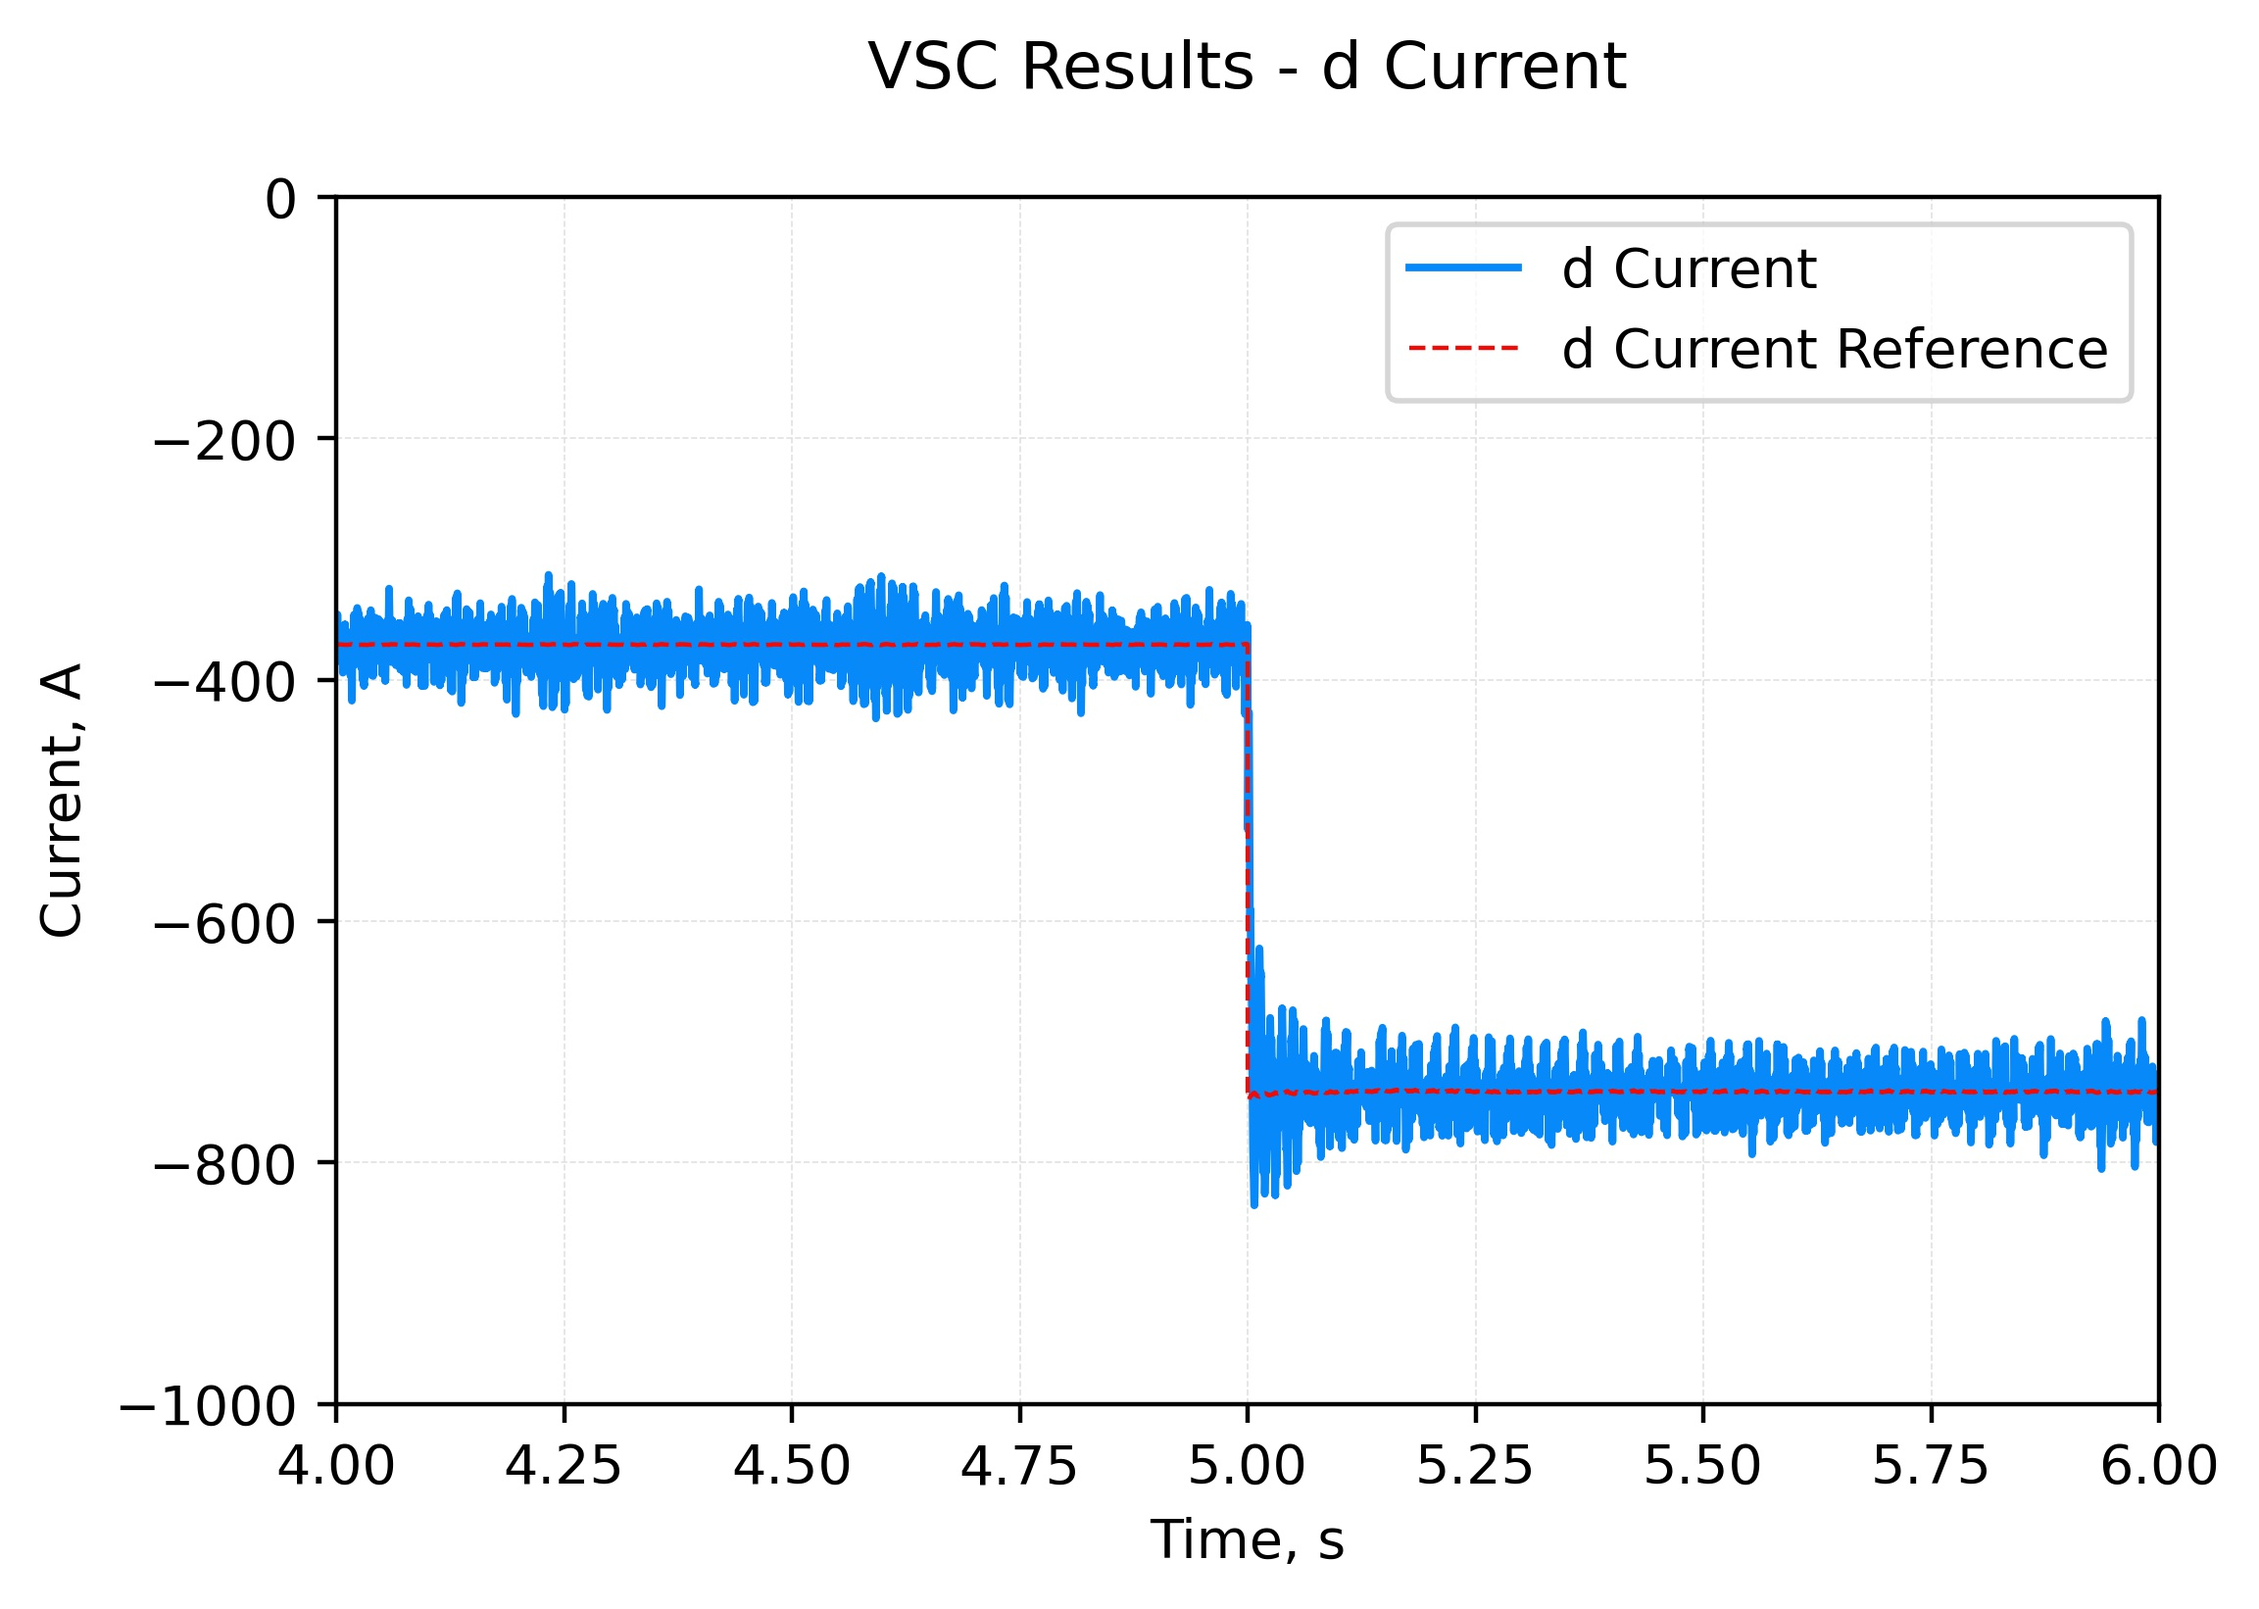
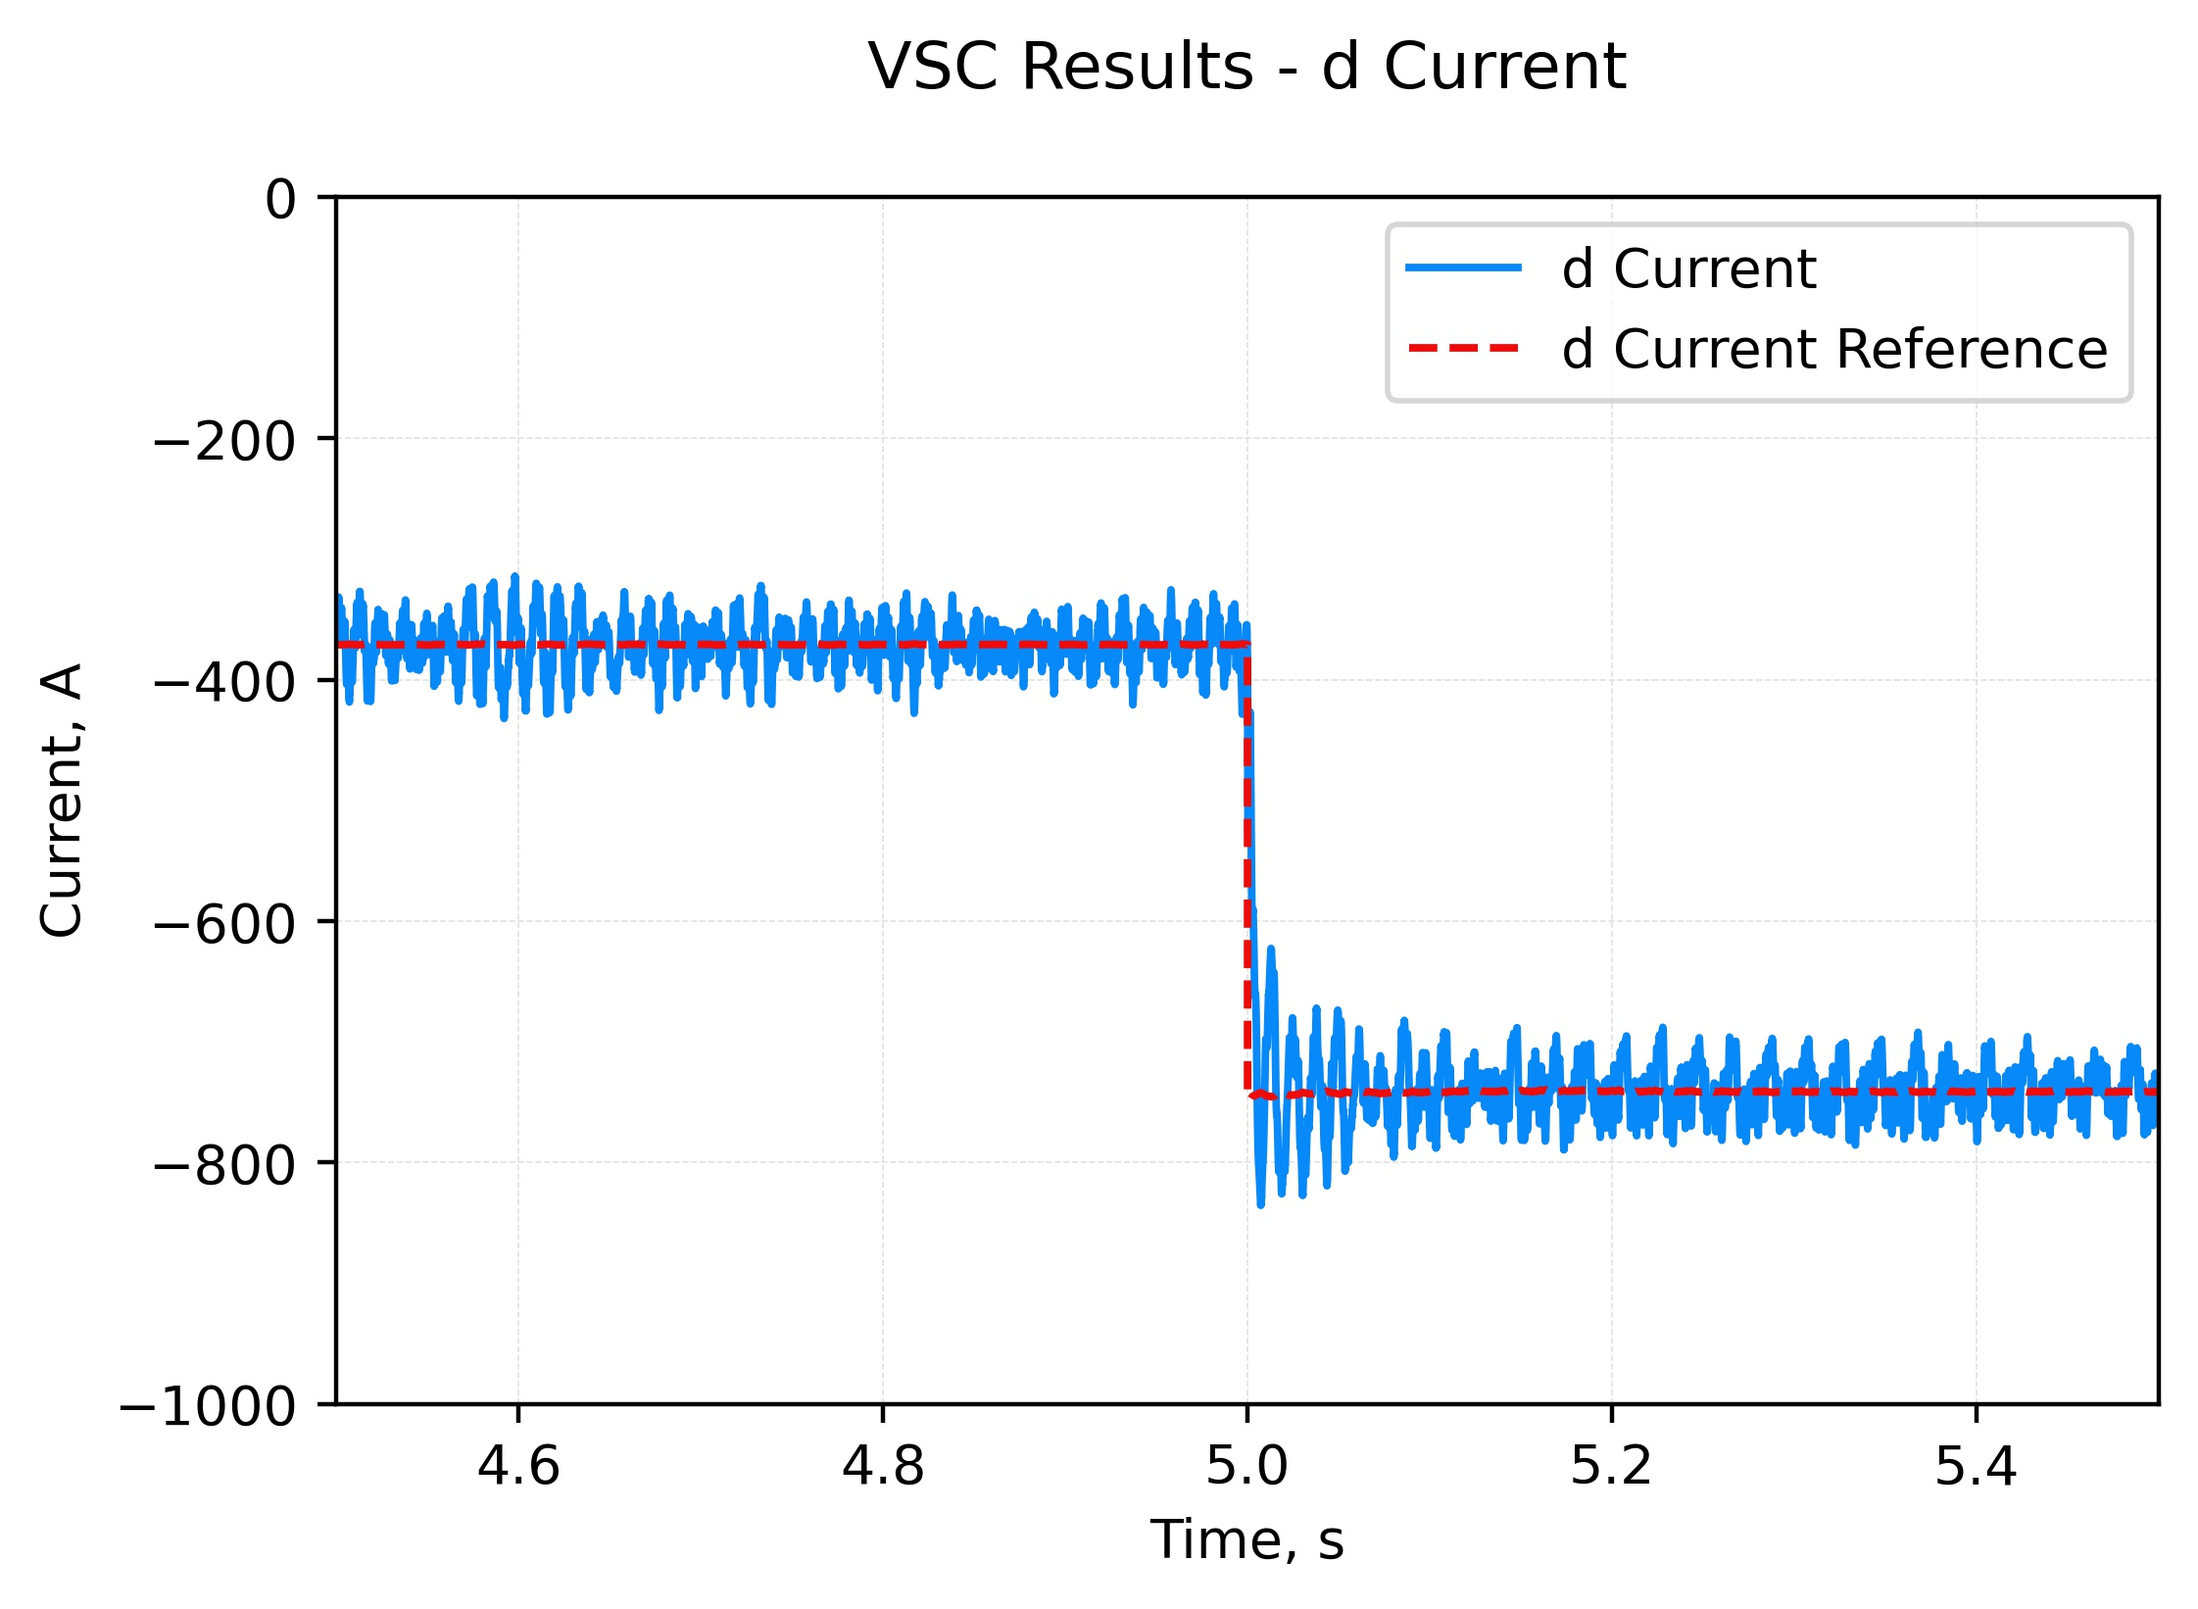
study 0 update

diff --git a/0-vsc-results-analysis.py b/0-vsc-results-analysis.py
@@ -5,24 +5,21 @@ import matplotlib.pyplot as plt
 
 iqFiles = ['iq.mat', 'iqRef.mat']
 idFiles = ['id.mat', 'idRef.mat']
-vdFiles = ['vd.mat']
-vqFiles = ['vq.mat']
 vscPowerFiles = ['power-vsc.mat', 'power-vsc-ref.mat']
 vsc = ['vVsc.mat', 'iVsc.mat']
-grid = ['vGrid.mat', 'iGrid.mat']
 
 
-time = [4, 6]
+time = [4.5, 5.5]
 
 # Plotting q current
-ds = f.importData(iqFiles, 'data/v2-data/0-vsc-results')
+ds = f.importData(iqFiles, 'data/v2-data/0-vsc-results-unfiltered')
 
 plt.figure(figsize=(6, 4), dpi=400)
 
 plt.plot(ds[iqFiles[0]]['Time'], ds[iqFiles[0]]['Value'],
          color='#0789FA', linewidth=1.4, label='q Current')
 plt.plot(ds[iqFiles[1]]['Time'], ds[iqFiles[1]]['Value'],
-         color='#F10A0A', linewidth=0.8, label='q Current Reference', linestyle='--')
+         color='#F10A0A', linewidth=1.4, label='q Current Reference', linestyle='--')
 
 plt.grid(linewidth=0.3, linestyle='--', color='#E1E1E1')
 plt.title('VSC Results - q Current', pad=20)
@@ -34,14 +31,14 @@ plt.legend(loc='lower right')
 plt.savefig('plots/v2-plots/0-vsc-iq.jpg', dpi=400, bbox_inches='tight')
 
 # Plotting d current
-ds = f.importData(idFiles, 'data/v2-data/0-vsc-results')
+ds = f.importData(idFiles, 'data/v2-data/0-vsc-results-unfiltered')
 
 plt.figure(figsize=(6, 4), dpi=400)
 
 plt.plot(ds[idFiles[0]]['Time'], ds[idFiles[0]]['Value'],
          color='#0789FA', linewidth=1.4, label='d Current')
 plt.plot(ds[idFiles[1]]['Time'], ds[idFiles[1]]['Value'],
-         color='#F10A0A', linewidth=0.8, label='d Current Reference', linestyle='--')
+         color='#F10A0A', linewidth=1.4, label='d Current Reference', linestyle='--')
 
 plt.grid(linewidth=0.3, linestyle='--', color='#E1E1E1')
 plt.title('VSC Results - d Current', pad=20)
@@ -52,56 +49,23 @@ plt.ylim([-1000, 0])
 plt.legend(loc='upper right')
 plt.savefig('plots/v2-plots/0-vsc-id.jpg', dpi=400, bbox_inches='tight')
 
-# Plotting q voltage
-ds = f.importData(vqFiles, 'data/v2-data/0-vsc-results')
-
-plt.figure(figsize=(6, 4), dpi=400)
-
-plt.plot(ds[vqFiles[0]]['Time'], ds[vqFiles[0]]['Value'],
-         color='#0789FA', linewidth=1.4, label='q Voltage')
-
-plt.grid(linewidth=0.3, linestyle='--', color='#E1E1E1')
-plt.title('VSC Results - q Voltage', pad=20)
-plt.xlabel('Time, s')
-plt.ylabel('Voltage, V')
-plt.xlim(time)
-plt.ylim([-100, 1000])
-plt.legend(loc='lower right')
-plt.savefig('plots/v2-plots/0-vsc-vq.jpg', dpi=400, bbox_inches='tight')
-
-# Plotting d voltage
-ds = f.importData(vdFiles, 'data/v2-data/0-vsc-results')
-
-plt.figure(figsize=(6, 4), dpi=400)
-
-plt.plot(ds[vdFiles[0]]['Time'], ds[vdFiles[0]]['Value'],
-         color='#0789FA', linewidth=1.4, label='d Voltage')
-
-plt.grid(linewidth=0.3, linestyle='--', color='#E1E1E1')
-plt.title('VSC Results - d Voltage', pad=20)
-plt.xlabel('Time, s')
-plt.ylabel('Voltage, V')
-plt.xlim(time)
-plt.ylim([-100, 20000])
-plt.legend(loc='lower right')
-plt.savefig('plots/v2-plots/0-vsc-vd.jpg', dpi=400, bbox_inches='tight')
 
 # Plotting power
-ds = f.importData(vscPowerFiles, 'data/v2-data/0-vsc-results')
+ds = f.importData(vscPowerFiles, 'data/v2-data/0-vsc-results-unfiltered')
 
 plt.figure(figsize=(6, 4), dpi=400)
 
 plt.plot(ds[vscPowerFiles[0]]['Time'], ds[vscPowerFiles[0]]['Value'],
          color='#0789FA', linewidth=1.4, label='VSC Power')
 plt.plot(ds[vscPowerFiles[1]]['Time'], ds[vscPowerFiles[1]]['Value'],
-         color='#F10A0A', linewidth=0.8, label='VSC Power Reference', linestyle='--')
+         color='#F10A0A', linewidth=1.4, label='VSC Power Reference', linestyle='--')
 
 plt.grid(linewidth=0.3, linestyle='--', color='#E1E1E1')
 plt.title('VSC Results - Power', pad=20)
 plt.xlabel('Time, s')
 plt.ylabel('Power, MW')
 plt.xlim(time)
-#plt.ylim([-100, 100])
+plt.ylim([0, 30])
 plt.legend(loc='lower right')
 plt.savefig('plots/v2-plots/0-vsc-power.jpg', dpi=400, bbox_inches='tight')
 
@@ -109,7 +73,7 @@ phase_colors = ['#E60B09', '#34C62C', '#2C67C7']
 phase_time = [4.9, 5.1]
 
 # Plotting VSC Voltage
-ds = f.import3phData(vsc, 'data/v2-data/0-vsc-results')
+ds = f.import3phData(vsc, 'data/v2-data/0-vsc-results-unfiltered')
 
 plt.figure(figsize=(6, 4), dpi=400)
 
@@ -129,7 +93,7 @@ plt.ylim([-20000, 20000])
 plt.savefig('plots/v2-plots/0-vsc-voltage.jpg', dpi=400, bbox_inches='tight')
 
 # Plotting VSC Current
-ds = f.import3phData(vsc, 'data/v2-data/0-vsc-results')
+ds = f.import3phData(vsc, 'data/v2-data/0-vsc-results-unfiltered')
 
 plt.figure(figsize=(6, 4), dpi=400)
 
@@ -147,44 +111,3 @@ plt.ylabel('Current, A')
 plt.xlim(phase_time)
 plt.ylim([-1000, 1000])
 plt.savefig('plots/v2-plots/0-vsc-current.jpg', dpi=400, bbox_inches='tight')
-
-# Plotting Grid Voltage
-ds = f.import3phData(grid, 'data/v2-data/0-vsc-results')
-
-plt.figure(figsize=(6, 4), dpi=400)
-
-plt.plot(ds[grid[0]]['Time'], ds[grid[0]]['a'],
-         color=phase_colors[0], linewidth=1.4)
-plt.plot(ds[grid[0]]['Time'], ds[grid[0]]['b'],
-         color=phase_colors[1], linewidth=1.4)
-plt.plot(ds[grid[0]]['Time'], ds[grid[0]]['c'],
-         color=phase_colors[2], linewidth=1.4)
-
-plt.grid(linewidth=0.3, linestyle='--', color='#E1E1E1')
-plt.title('Grid Results - Voltage', pad=20)
-plt.xlabel('Time, s')
-plt.ylabel('Voltage, V')
-plt.xlim(phase_time)
-#plt.ylim([-100, 100])
-plt.savefig('plots/v2-plots/0-grid-voltage.jpg', dpi=400, bbox_inches='tight')
-
-# Plotting Grid Current
-ds = f.import3phData(grid, 'data/v2-data/0-vsc-results')
-
-plt.figure(figsize=(6, 4), dpi=400)
-
-plt.plot(ds[grid[1]]['Time'], ds[grid[1]]['a'],
-         color=phase_colors[0], linewidth=1.4)
-plt.plot(ds[grid[1]]['Time'], ds[grid[1]]['b'],
-         color=phase_colors[1], linewidth=1.4)
-plt.plot(ds[grid[1]]['Time'], ds[grid[1]]['c'],
-         color=phase_colors[2], linewidth=1.4)
-
-plt.grid(linewidth=0.3, linestyle='--', color='#E1E1E1')
-plt.title('Grid Results - Current', pad=20)
-plt.xlabel('Time, s')
-plt.ylabel('Current, A')
-plt.xlim(phase_time)
-plt.ylim([-400, 400])
-plt.savefig('plots/v2-plots/0-grid-current.jpg', dpi=400, bbox_inches='tight')
-
